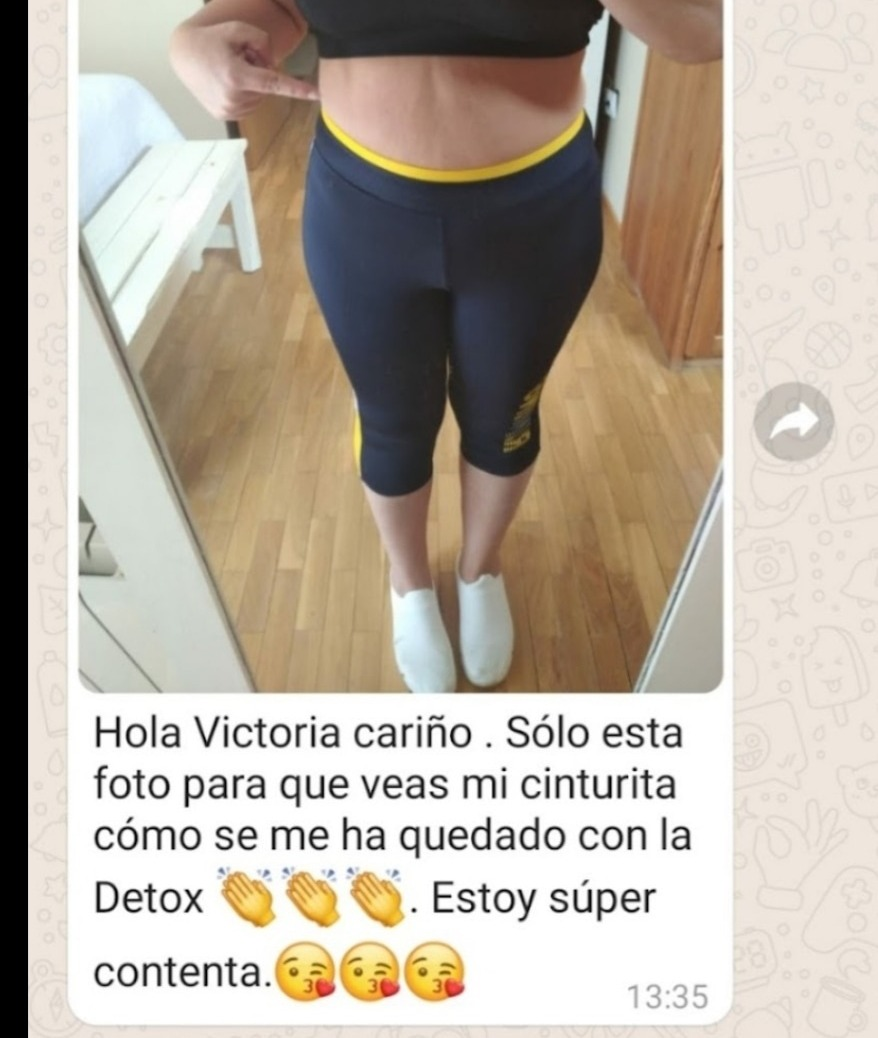
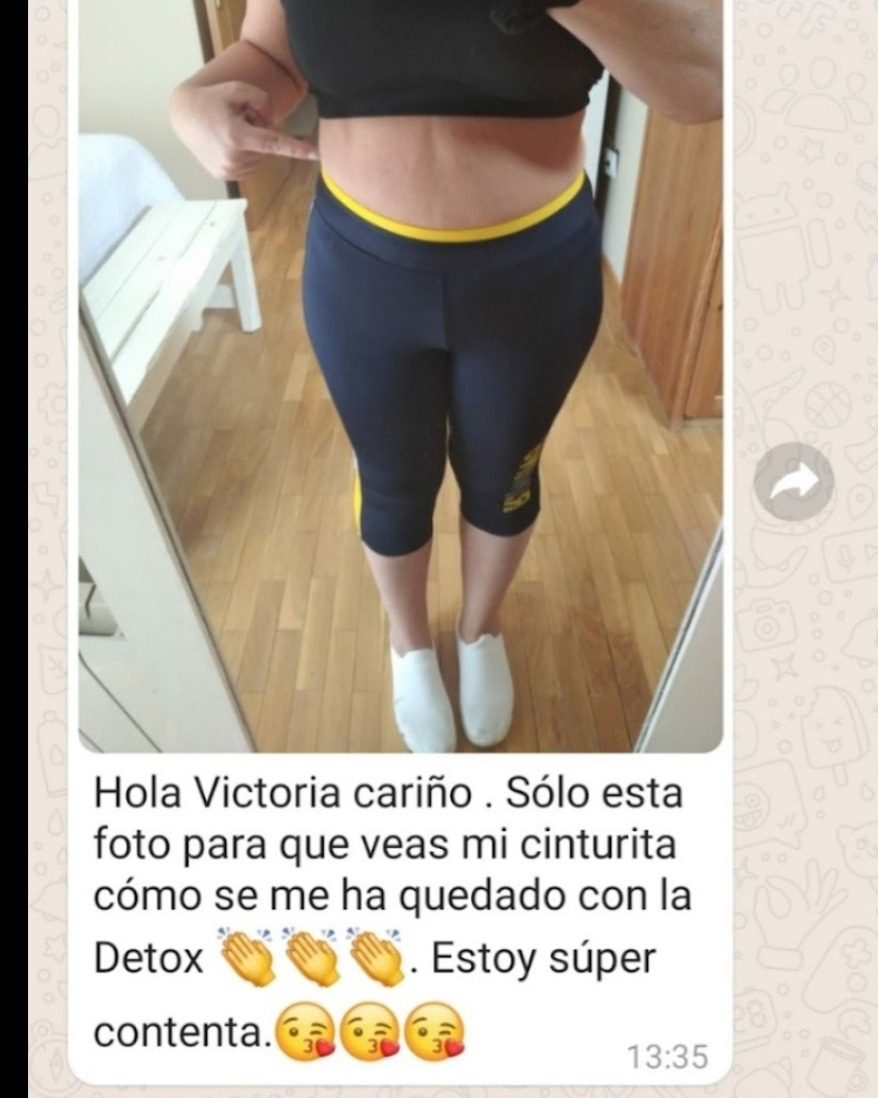
Fix wapr-cards: altura fija cover en desktop, auto en movil

diff --git a/index.html b/index.html
@@ -444,8 +444,8 @@ img{display:block}
 .wapr-grid{display:grid;grid-template-columns:repeat(2,1fr);gap:1.5rem;align-items:start}
 .wapr-card{background:var(--white);border-radius:20px;overflow:hidden;box-shadow:0 6px 32px rgba(0,0,0,.08);transition:transform .35s,box-shadow .35s}
 .wapr-card:hover{transform:translateY(-6px);box-shadow:0 18px 50px rgba(0,0,0,.12)}
-.wapr-card-img{overflow:hidden}
-.wapr-card-img img{width:100%;height:auto;display:block;transition:transform .5s ease}
+.wapr-card-img{overflow:hidden;height:320px}
+.wapr-card-img img{width:100%;height:100%;object-fit:cover;object-position:center 30%;display:block;transition:transform .5s ease}
 .wapr-card:hover .wapr-card-img img{transform:scale(1.02)}
 .wapr-card-foot{padding:1.1rem 1.25rem 1.2rem;display:flex;align-items:center;justify-content:space-between;gap:.75rem;border-top:1px solid var(--border)}
 .wapr-card-result{font-family:var(--serif);font-size:1.05rem;font-style:italic;color:var(--green-dark);line-height:1.3}
@@ -526,6 +526,7 @@ img{display:block}
   /* LAYOUTS */
   .wapr-feat{grid-template-columns:1fr}
   .wapr-card-img{height:auto}
+  .wapr-card-img img{object-fit:contain;object-position:center top}
   .wapr-grid{grid-template-columns:1fr}
   .hero .wrap,.historia .wrap,.reset45-inner,.contacto .wrap{grid-template-columns:1fr;gap:2.5rem}
   .hero-img{order:-1}
